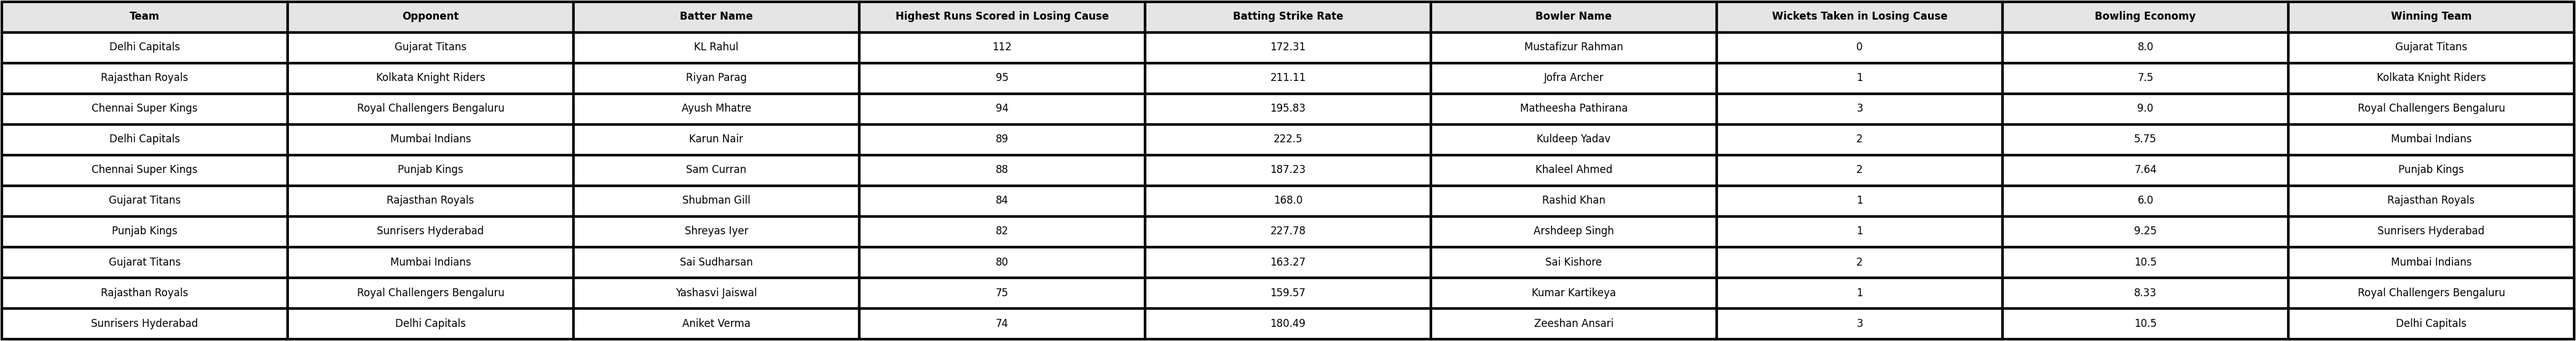
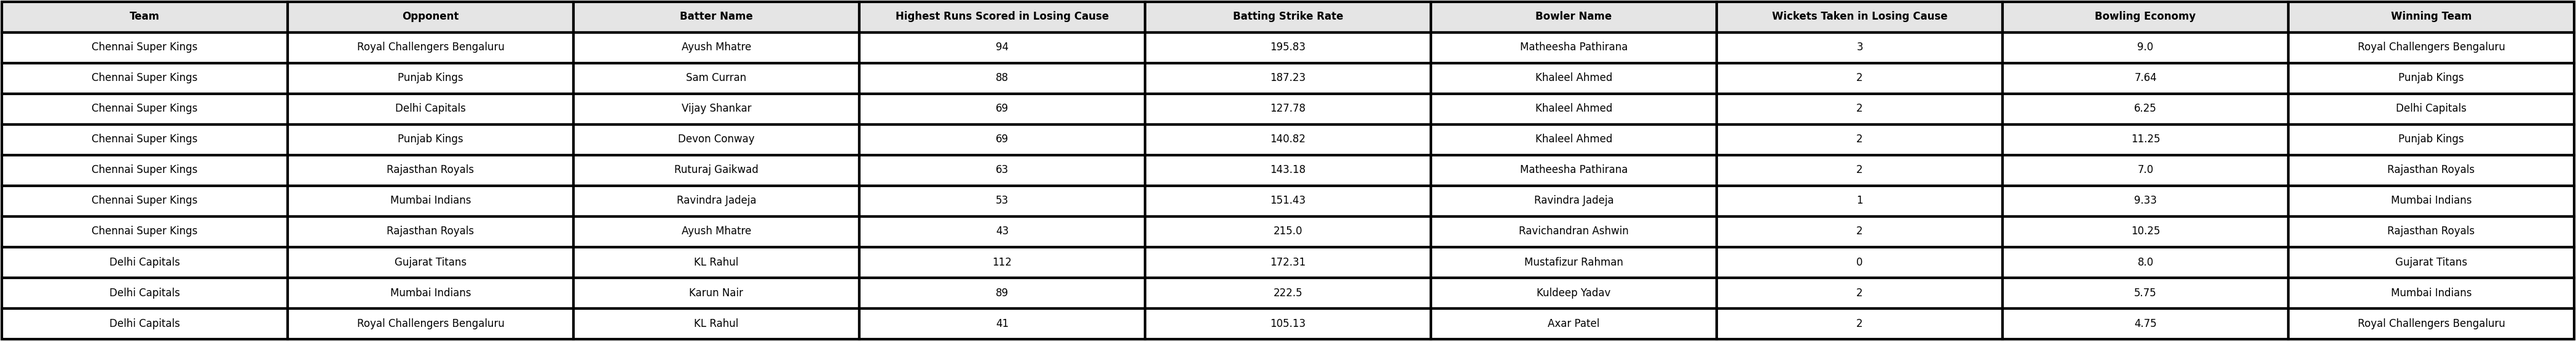
Updated with new Queries & Outputs

diff --git a/ipl-readme.md b/ipl-readme.md
@@ -3169,7 +3169,7 @@ select
 	economy as "Bowling Economy",
 	opp as "Winning Team"
 from combined_losing_cause_performances
-order by "Highest Runs Scored in Losing Cause" desc, "Wickets Taken in Losing Cause" desc
+order by "Team", "Highest Runs Scored in Losing Cause" desc, "Wickets Taken in Losing Cause" desc
 limit 10
 ```
 </details><br>
